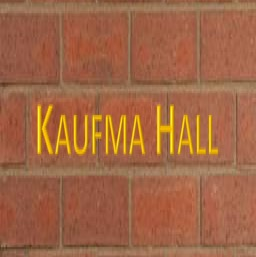
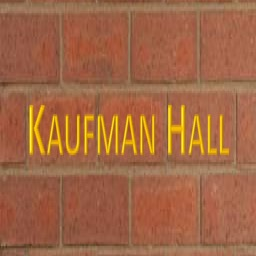
add royce && kaufman sign

Changed region(s): [[0.0938, 0.4062, 0.9062, 0.625]]

diff --git a/transforms-sandbox.js b/transforms-sandbox.js
@@ -92,6 +92,9 @@ export class Transforms_Sandbox_Base extends Scene
           board_engr_6: new Material(bump,{color: color( 0,0,0,1 ), ambient: 1, texture: new Texture( "assets/boards/e6.jpg" )}),
           board_engr_5: new Material(bump,{color: color( 0,0,0,1 ), ambient: 1, texture: new Texture( "assets/boards/e5.jpg" )}),
           board_math: new Material(bump,{color: color( 0,0,0,1 ), ambient: 1, texture: new Texture( "assets/boards/math.jpg" )}),
+          board_moore: new Material(bump,{color: color( 0,0,0,1 ), ambient: 1, texture: new Texture( "assets/boards/moore.jpg" )}),
+          board_kaufman: new Material(bump,{color: color( 0,0,0,1 ), ambient: 1, texture: new Texture( "assets/boards/kaufman.jpg" )}),
+          board_royce: new Material(bump,{color: color( 0,0,0,1 ), ambient: 1, texture: new Texture( "assets/boards/royce.jpg" )}),
           sign: new Material(phong,{ ambient: 0.5, diffusivity: 0.5, specularity: 0.5, color: color( 0.59,0.29,0,1 ) } )
         }
 
@@ -548,6 +551,17 @@ export class Transforms_Sandbox_Base extends Scene
       this.shapes.board.draw( context, program_state, Mat4.translation(11.8,8,28).times(Mat4.rotation(-Math.PI / 2,0,1,0)), this.materials.board_math );
       this.shapes.sign.draw( context, program_state, Mat4.translation(11.8,8,28.205), this.materials.sign);
 
+      //Moore board
+      this.shapes.board.draw( context, program_state, Mat4.translation(11.8,8,20).times(Mat4.rotation(Math.PI / 2,0,1,0)), this.materials.board_moore );
+      this.shapes.sign.draw( context, program_state, Mat4.translation(11.8,8,19.795), this.materials.sign);
+
+      //Kaufman Hall board
+      this.shapes.board.draw( context, program_state, Mat4.translation(-32,3,-31.5).times(Mat4.rotation(Math.PI / 2,0,1,0)), this.materials.board_kaufman );
+      this.shapes.sign.draw( context, program_state, Mat4.translation(-32,3,-31.705), this.materials.sign);
+
+      //Royce Hall board
+      this.shapes.board.draw( context, program_state, Mat4.translation(10,7,-31.5).times(Mat4.rotation(Math.PI / 2,0,1,0)), this.materials.board_royce );
+      this.shapes.sign.draw( context, program_state, Mat4.translation(10,7,-31.705), this.materials.sign);
 
       //MOORE
       this.shapes.moore.draw( context, program_state, Mat4.translation(12,10,10).times(Mat4.scale(6,6,12)), this.materials.moore  );
@@ -579,7 +593,7 @@ export class Transforms_Sandbox_Base extends Scene
        this.shapes.kaufman.draw( context, program_state, Mat4.translation(-34,6,-12).times(Mat4.scale(6,6,6)), this.materials.stars  );
 
        //Student activity center
-       this.shapes.act.draw( context, program_state, Mat4.translation(-34,4,-32).times(Mat4.scale(6,6,6)), this.materials.stars  );
+       this.shapes.act.draw( context, program_state, Mat4.translation(-34,4,-34).times(Mat4.scale(6,6,6)), this.materials.stars  );
 
     /*****Grass**/
       //  this.shapes.box.draw(context, program_state, Mat4.translation(-18,1.2,-13).times(Mat4.scale(6,1,6)) , this.materials.grass);
